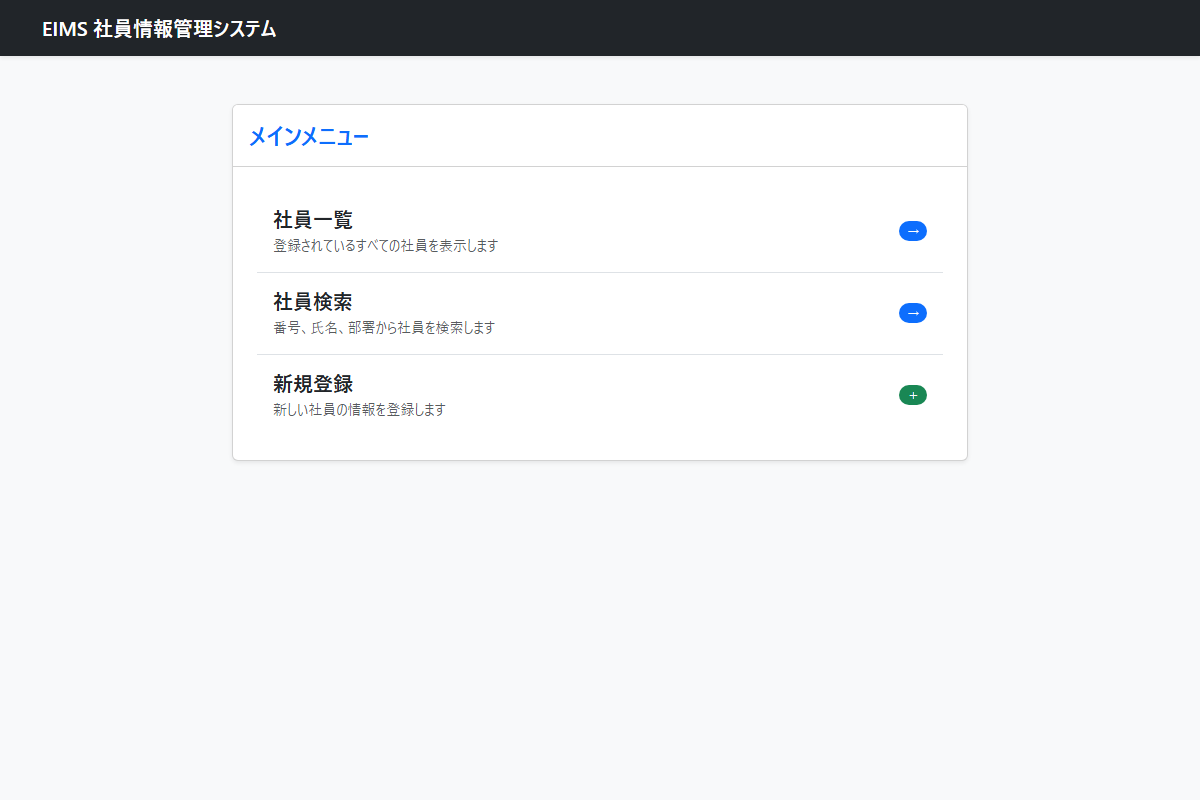
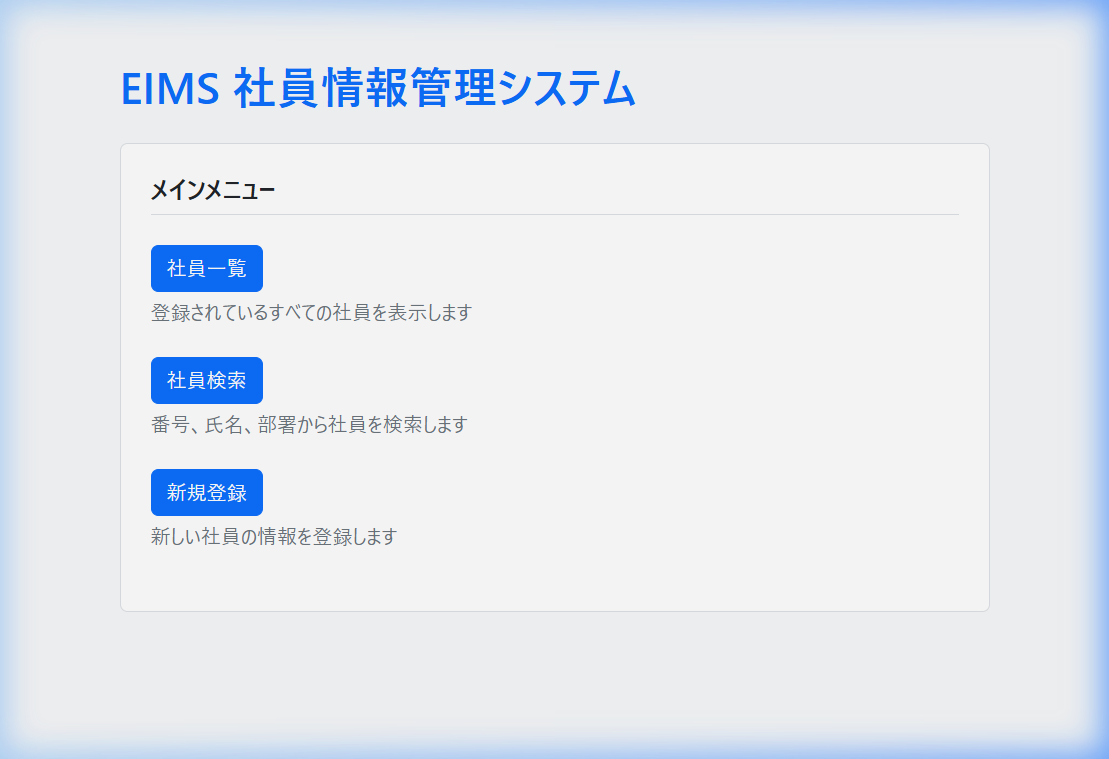
画面レイアウト図の画像パスを修正（../images/から./images/へ）し、社員一覧画面を含む最新のスクリーンショット5枚を反映

diff --git a/EIMS_Comprehensive_Exercise_Guide.md b/EIMS_Comprehensive_Exercise_Guide.md
@@ -678,52 +678,55 @@ flowchart TD
 ### 5.1 共通・検索機能
 
 #### UI1: トップページ
-![トップページ](../images/UI1_top.png)
+![トップページ](./images/UI1_top.png)
+
+#### UI_L: 社員一覧画面
+![社員一覧画面](./images/UI_L_employee_list.png)
 
 #### UI2: 検索条件入力画面
-![検索条件入力画面](../images/UI2_search.png)
+![検索条件入力画面](./images/UI2_search.png)
 
 #### UI3: 検索結果一覧画面
-![検索結果一覧画面](../images/UI3_search_result.png)
+![検索結果一覧画面](./images/UI3_search_result.png)
 
 #### UI_D: 社員詳細画面
-![社員詳細画面](../images/UI_D_employee_detail.png)
+![社員詳細画面](./images/UI_D_employee_detail.png)
 
 <div style="page-break-before: always;"></div>
 
 ### 5.2 登録機能
 
 #### UI4: 社員情報登録画面
-![社員情報登録画面](../images/UI4_input.png)
+![社員情報登録画面](./images/UI4_input.png)
 
 #### UI5: 登録確認画面
-![登録確認画面](../images/UI5_input_confirm.png)
+![登録確認画面](./images/UI5_input_confirm.png)
 
 #### UI6: 登録完了画面
-![登録完了画面](../images/UI6_input_complete.png)
+![登録完了画面](./images/UI6_input_complete.png)
 
 <div style="page-break-before: always;"></div>
 
 ### 5.3 変更機能
 
 #### UI9: 変更画面
-![変更画面](../images/UI9_change.png)
+![変更画面](./images/UI9_change.png)
 
 #### UI10: 変更確認画面
-![変更確認画面](../images/UI10_change_confirm.png)
+![変更確認画面](./images/UI10_change_confirm.png)
 
 #### UI11: 変更完了画面
-![変更完了画面](../images/UI11_change_complete.png)
+![変更完了画面](./images/UI11_change_complete.png)
 
 <div style="page-break-before: always;"></div>
 
 ### 5.4 削除機能
 
 #### UI7: 削除確認画面
-![削除確認画面](../images/UI7_delete_confirm.png)
+![削除確認画面](./images/UI7_delete_confirm.png)
 
 #### UI8: 削除完了画面
-![削除完了画面](../images/UI8_delete_complete.png)
+![削除完了画面](./images/UI8_delete_complete.png)
 
 <div style="page-break-before: always;"></div>
 
